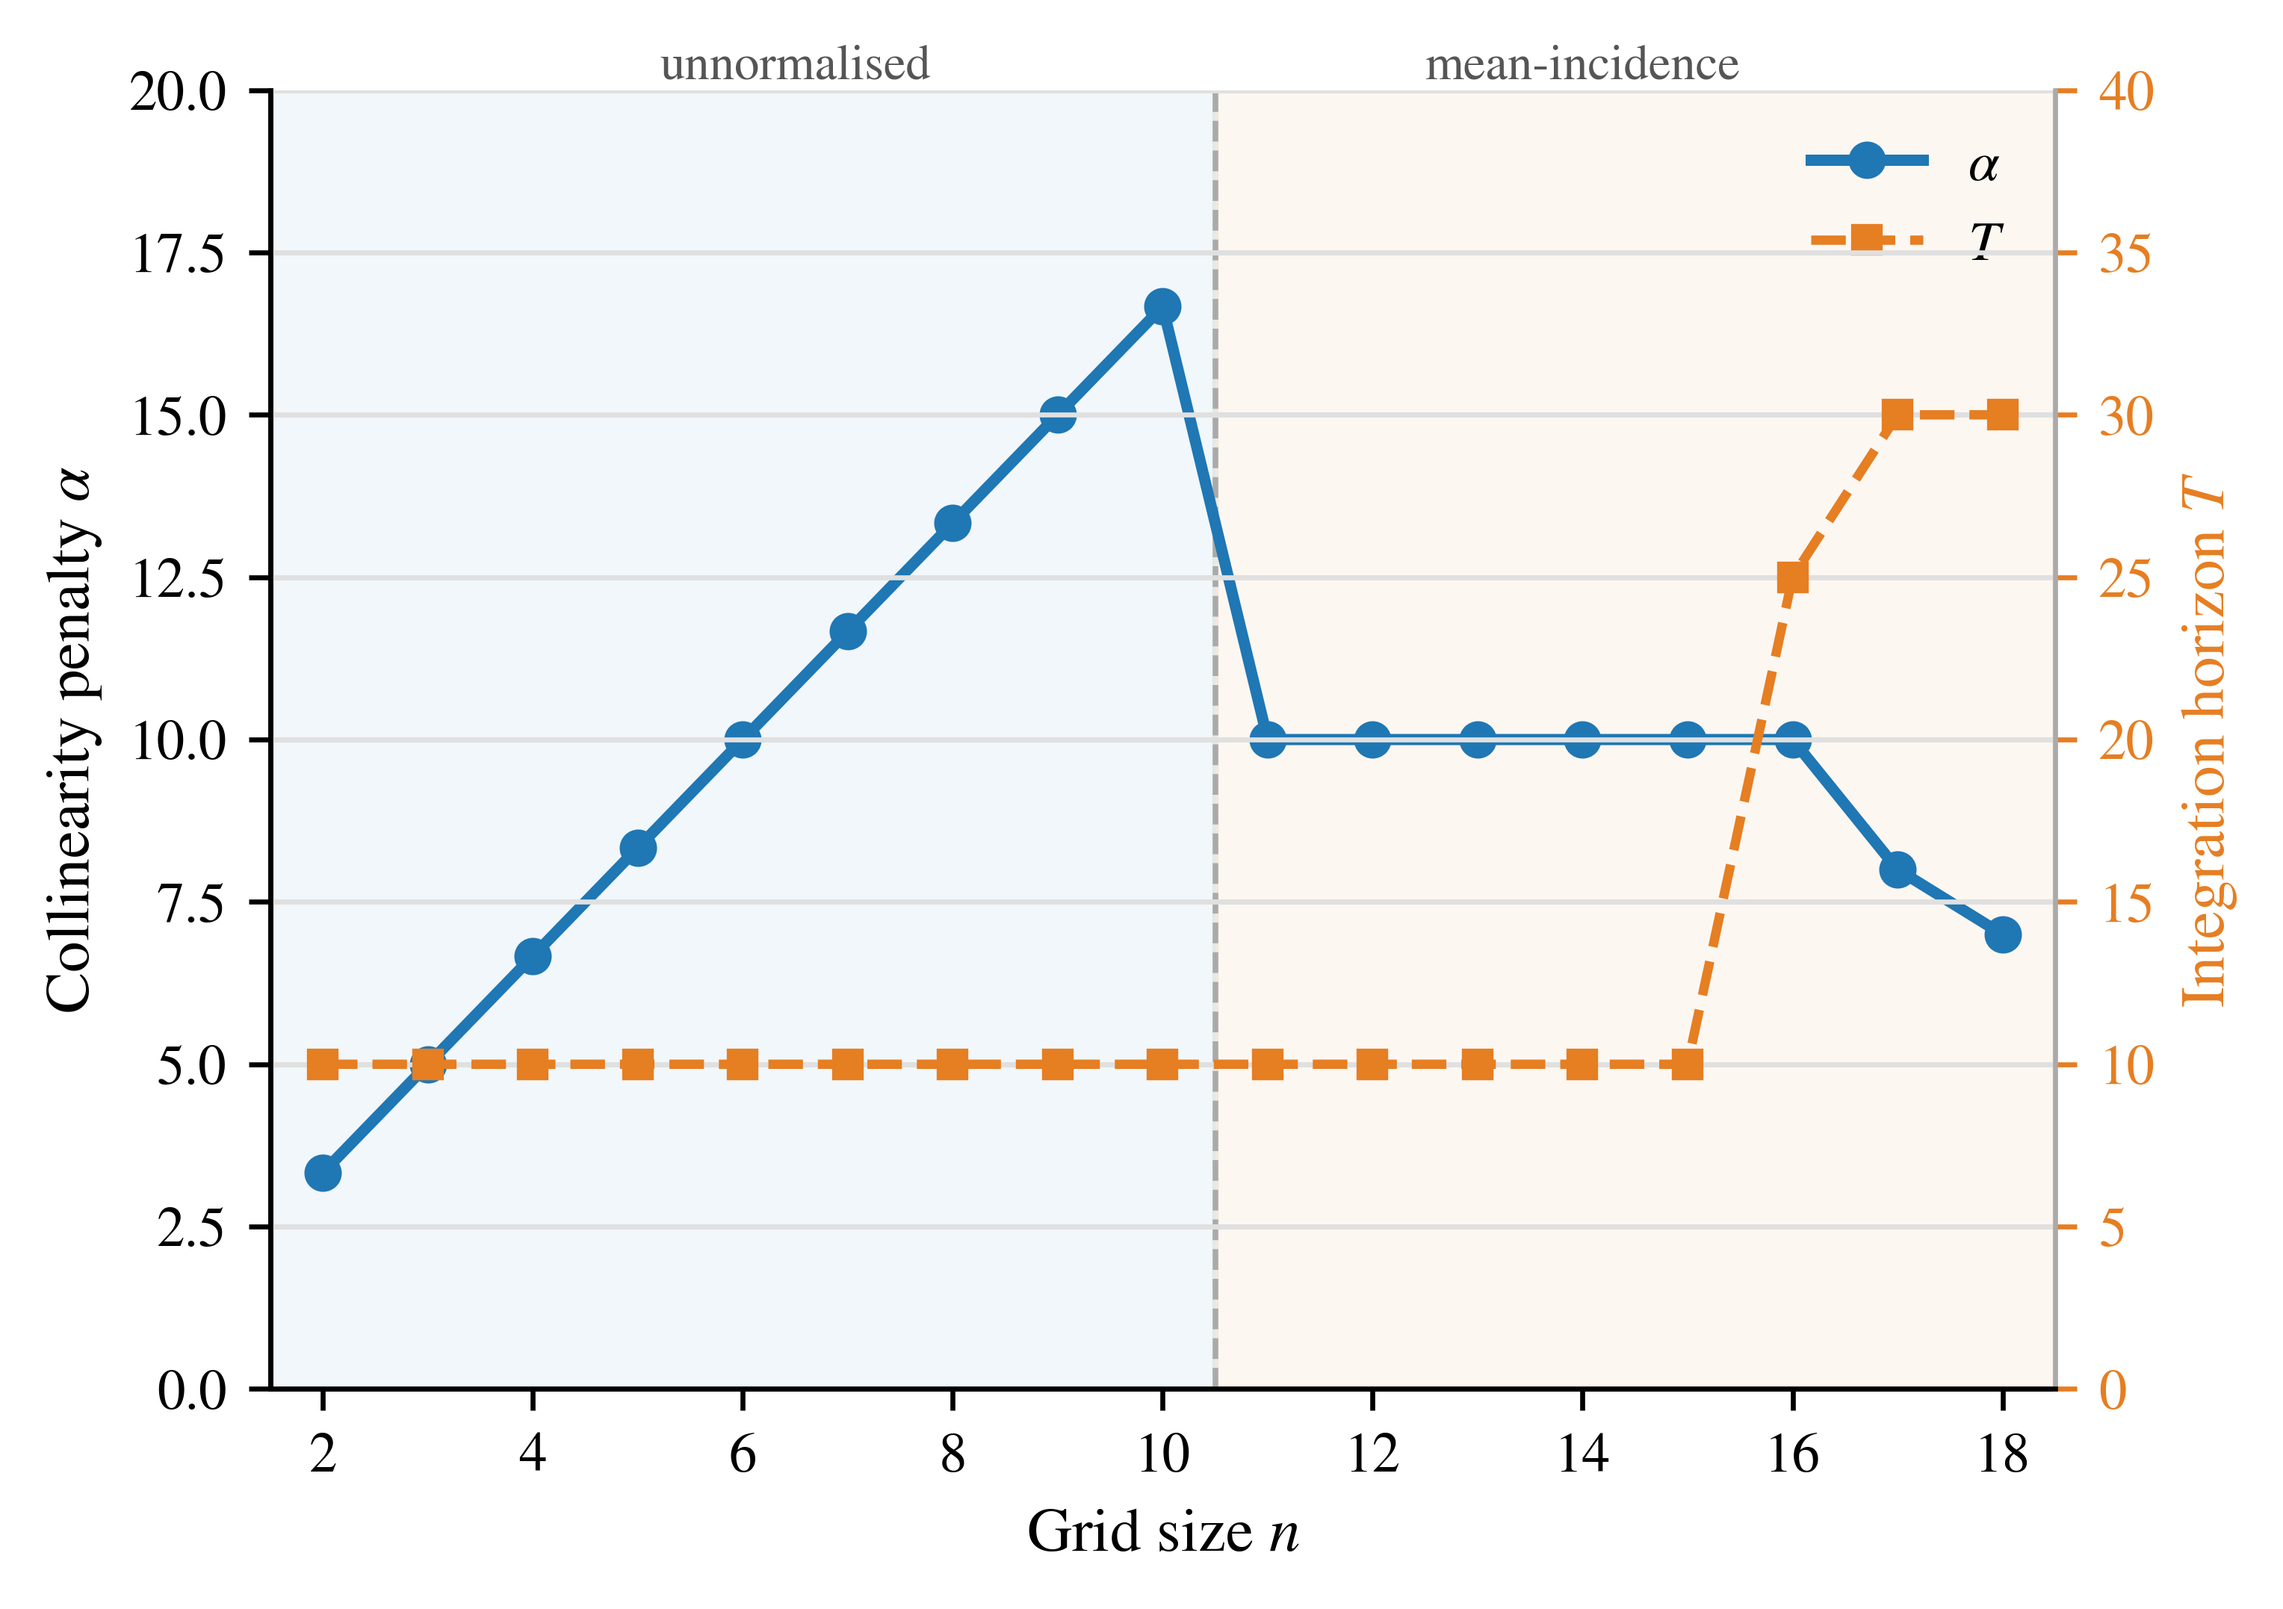
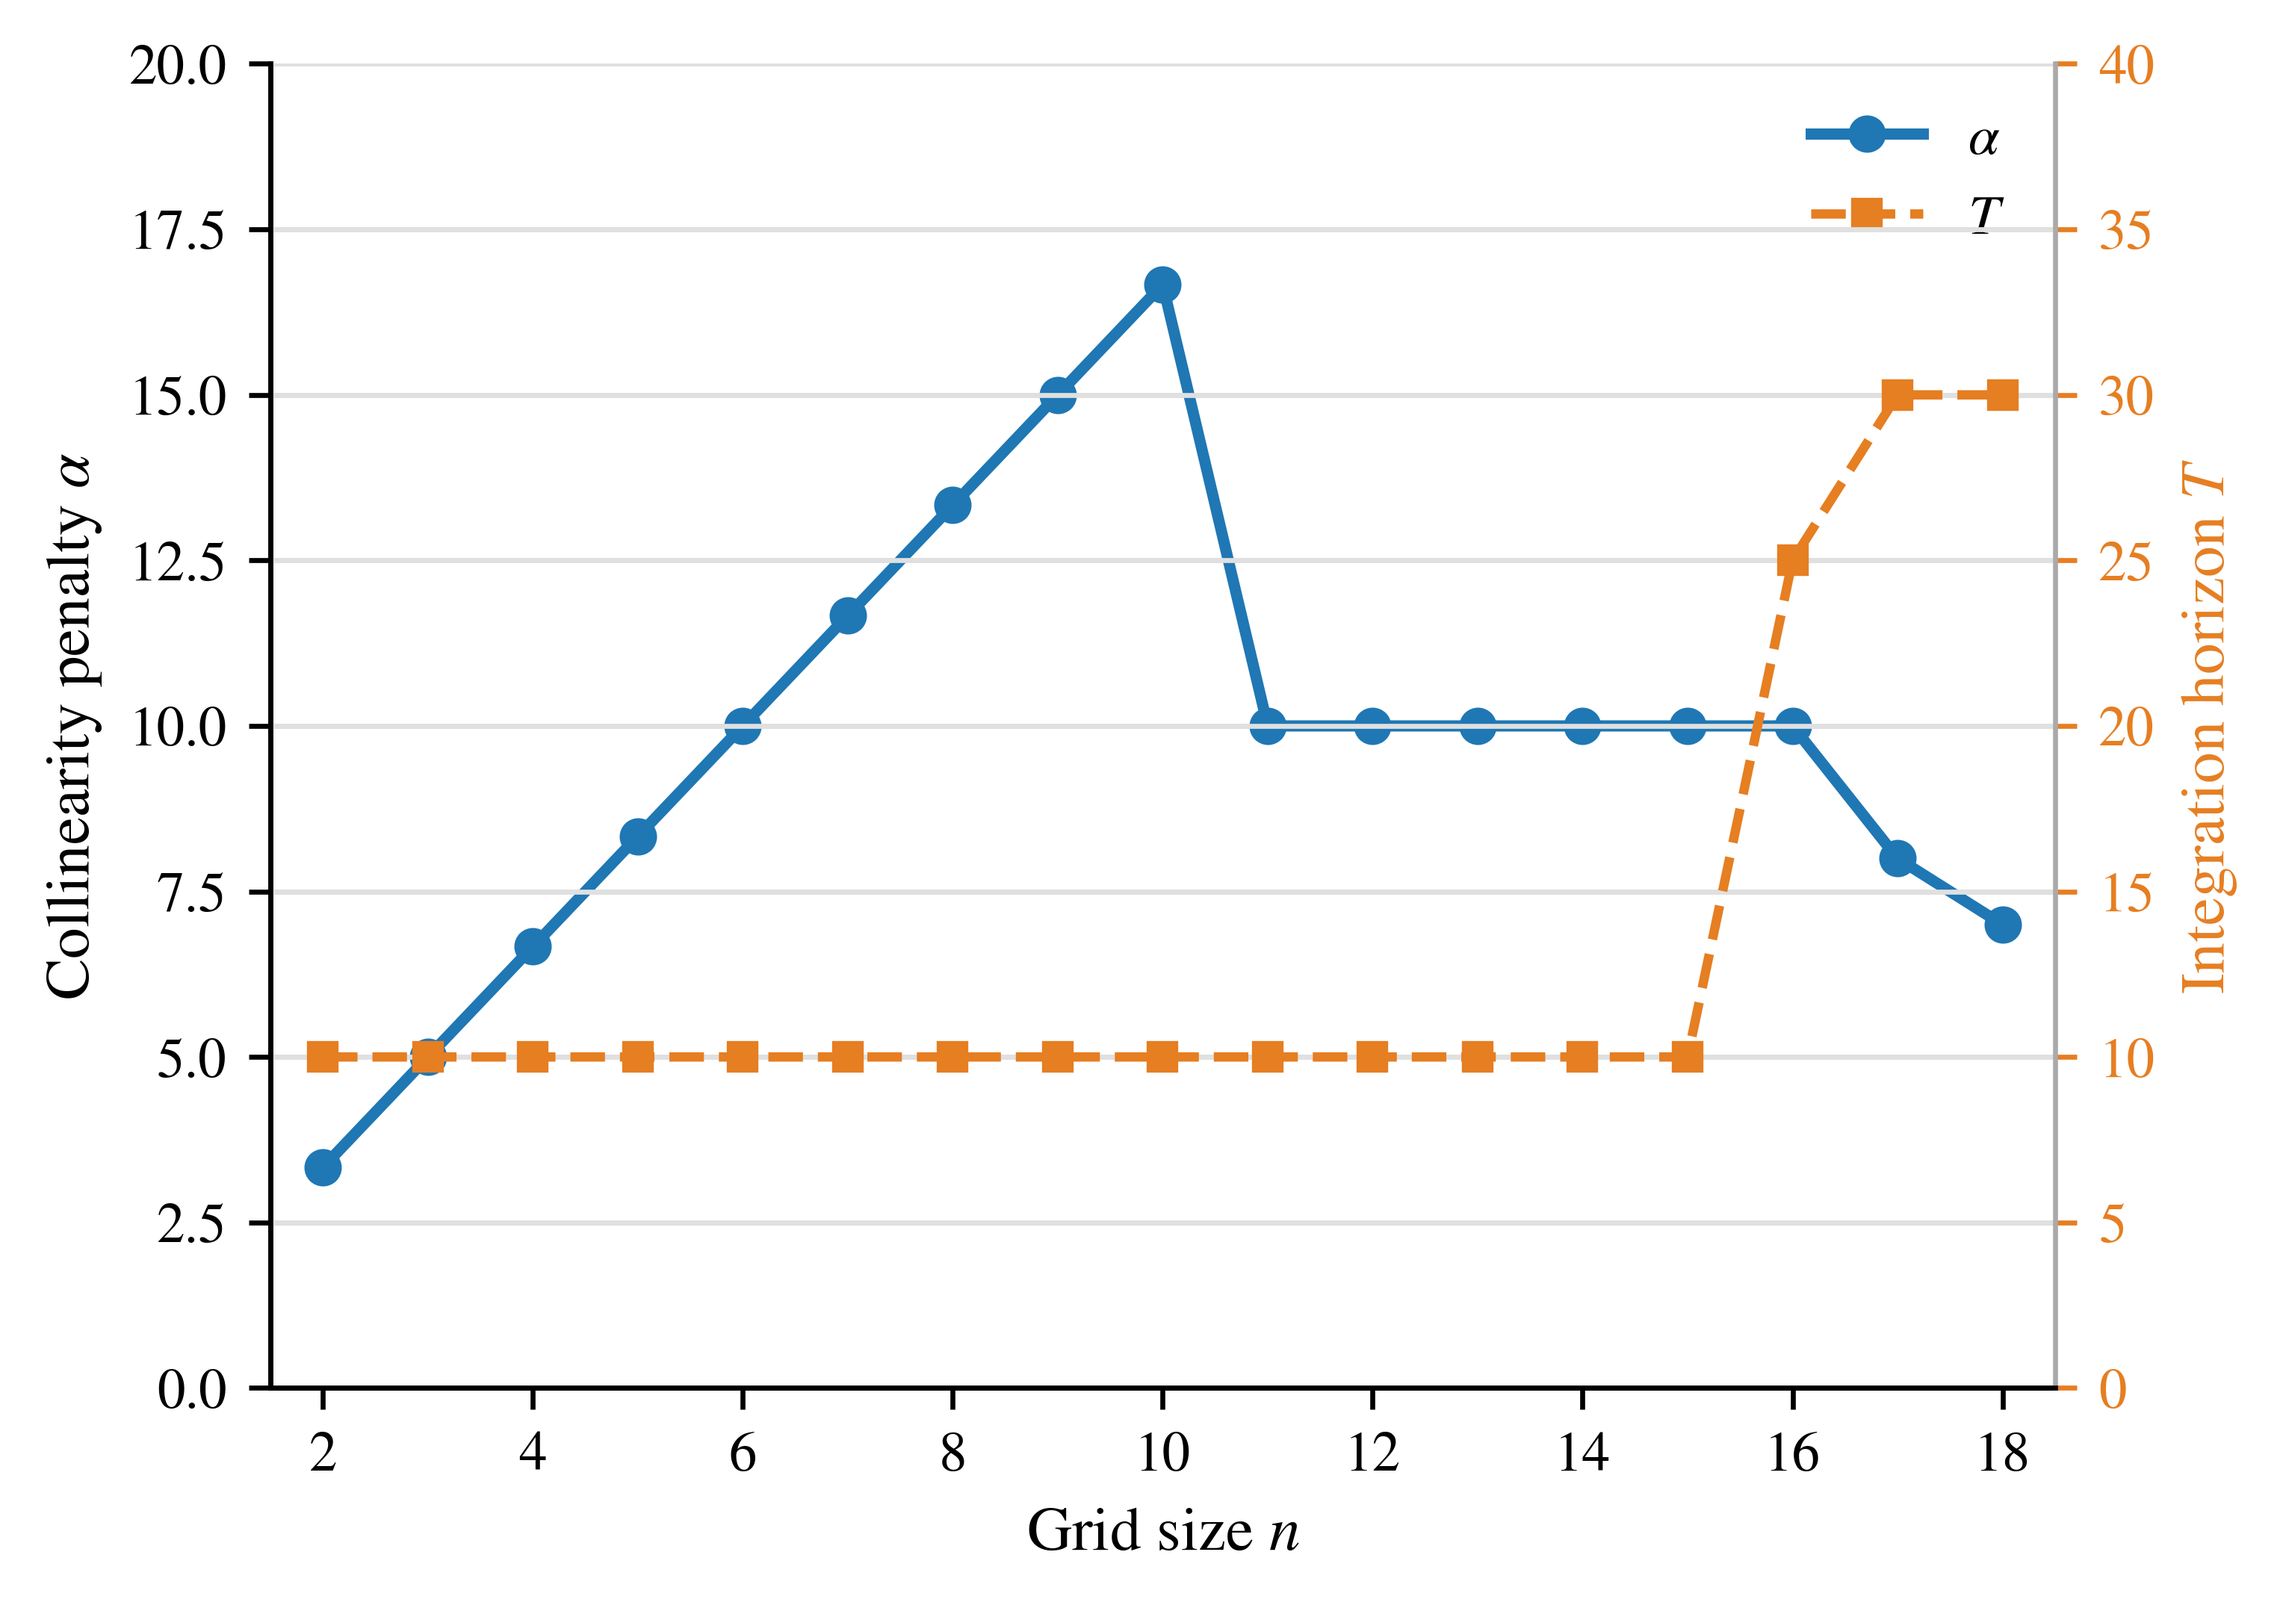
Update SciML parameter scaling section for clarity; revise normalization explanation and failure mode details.

diff --git a/paper.tex b/paper.tex
@@ -561,14 +561,14 @@ Figure \ref{fig:patternboost_loss} shows PatternBoost's loss over 15,000 trainin
 
 \subsection{Parameter Scaling for SciML}
 
-The collinearity-penalty schedule has two regimes. For $n \le 10$ we use unnormalised line penalties and $\alpha$ rises linearly with $n$, from $\alpha = 3.3$ at $n = 2$ to $\alpha = 16.7$ at $n = 10$ --- a slope of roughly $5/3$ per unit grid size. From $n = 11$ onwards we switch to mean-incidence normalisation (Section~2.5.1), which divides each line's penalty by line length; $\alpha$ then no longer needs to grow with the constraint count, and we hold it near $10$ for $n = 11$--$16$, decreasing to $7$ at $n = 18$. The integration horizon $T$ stays at $10$ for $n \le 15$, $25$ at $n = 16$, and $30$ for $n = 17,18$. The reported $n=19$ exploratory sweep used a separate $T=10$, $\alpha=8$ setting. The two regimes where success collapses, $n = 17$ and $n = 19$, coincide with the schedule's tightest margin: the unnormalised regime would have required $\alpha \approx 30$ at $n = 17$, beyond what the GPU's Float32 dynamic range can stably support.
+Mean-incidence normalisation is used throughout all grid sizes. $\alpha$ is hand-tuned per $n$: higher for small grids ($\alpha = 3.3$ at $n = 2$, rising to $\alpha = 16.7$ at $n = 10$) and held in a narrower range for larger grids ($\alpha \approx 10$ for $n = 11$--$16$, decreasing to $7$ at $n = 18$). The integration horizon $T$ stays at $10$ for $n \le 15$, $25$ at $n = 16$, and $30$ for $n = 17,18$. The reported $n=19$ exploratory sweep used a separate $T=10$, $\alpha=8$ setting. The failure modes at $n = 17$ and $n = 19$ coincide with the schedule's tightest margin: raising $\alpha$ further tends to freeze trajectories in bad local minima before the gradient flow can converge.
 
 Figure~\ref{fig:sciml_alpha} shows the full $\alpha(n)$ and $T(n)$ schedules.
 
 \begin{figure}[htbp]
     \centering
     \includegraphics[width=0.85\linewidth]{sciml_alpha_scaling.png}
-    \caption{SciML collinearity-penalty schedule $\alpha(n)$ (blue, left axis) and integration horizon $T(n)$ (orange, right axis). Shaded regions mark the unnormalised ($n \le 10$) and mean-incidence ($n \ge 11$) regimes.}
+    \caption{SciML collinearity-penalty schedule $\alpha(n)$ (blue, left axis) and integration horizon $T(n)$ (orange, right axis). Mean-incidence normalisation is used throughout; $\alpha$ is hand-tuned per $n$.}
     \label{fig:sciml_alpha}
 \end{figure}
 
@@ -597,7 +597,7 @@ Future research should prioritize hybrid training paradigms that combine supervi
 
 Across the four paradigms, exact search dominates wherever it applies, while learning-based discrete methods plateau at $n \le 15$. The SciML continuous-relaxation approach reaches $n = 18$ without symmetry pruning; at $n = 19$ the method does not yet reliably converge, a limitation we attribute to compute rather than a fundamental barrier.
 
-The distinct failure modes observed across methods reveal fundamental trade-offs in combinatorial optimization. ILP's branch-and-bound approach guarantees optimality through systematic search space pruning but faces exponential growth in problem complexity, illustrating the combinatorial explosion inherent to exact optimization. PatternBoost's philosophy of rapid training data generation through greedy algorithms creates a quality-speed trade-off: the greedy approach struggles to find high-quality placements as problem complexity increases, constraining the quality of learned patterns. Reinforcement learning improved over training iterations but consistently produced constraint violations beyond $n = 10$, revealing fundamental difficulty in satisfying geometric constraints through reward-based exploration alone. The SciML method exhibits a different failure mode: a continuous-discrete gap that opens at $n = 17$ and $n = 19$, where the gradient flow stabilises configurations with one to three residual collinearities and the threshold $\tau$ cannot reliably round them to a valid binary solution; this regime is also where the GPU's Float32 dynamic range limits how much further the collinearity penalty $\alpha$ can be raised. These computational bottlenecks underscore that each method occupies a distinct niche in the optimization landscape.
+The distinct failure modes observed across methods reveal fundamental trade-offs in combinatorial optimization. ILP's branch-and-bound approach guarantees optimality through systematic search space pruning but faces exponential growth in problem complexity, illustrating the combinatorial explosion inherent to exact optimization. PatternBoost's philosophy of rapid training data generation through greedy algorithms creates a quality-speed trade-off: the greedy approach struggles to find high-quality placements as problem complexity increases, constraining the quality of learned patterns. Reinforcement learning improved over training iterations but consistently produced constraint violations beyond $n = 10$, revealing fundamental difficulty in satisfying geometric constraints through reward-based exploration alone. The SciML method exhibits a different failure mode: a continuous-discrete gap that opens at $n = 17$ and $n = 19$, where the gradient flow stabilises configurations with one to three residual collinearities and the threshold $\tau$ cannot reliably round them to a valid binary solution; this regime is also where raising $\alpha$ further tends to freeze trajectories in bad local minima before convergence. These computational bottlenecks underscore that each method occupies a distinct niche in the optimization landscape.
 
 Each method was evaluated up to the grid size at which it could no longer reliably produce valid solutions, with computational cost as the primary limiting factor for ILP. Unlike SciML, whose shorter run times made 10-seed sweeps feasible on the M2 MacBook, PPO and PatternBoost were evaluated from a single training run because repeating their much longer end-to-end training across seeds was not practical under our hardware budget. Wall-clock times are therefore not directly comparable across methods. Computational constraints prevented exhaustive hyperparameter tuning and investigation of architectural improvements. The PatternBoost model relies heavily on greedy-generated training data quality, with greedy algorithm limitations potentially propagating to the learned model. PPO's reward structure remains relatively simple, limiting its ability to handle sparse binary rewards in constraint satisfaction tasks. The SciML pipeline was evaluated only on Apple Metal: ROCm and CUDA backends were not cross-validated, the per-grid hyperparameter schedule was tuned manually with a single run configuration per $n$, and we did not exploit the rotational and reflective symmetries that the classical solvers rely on at larger $n$.
 
